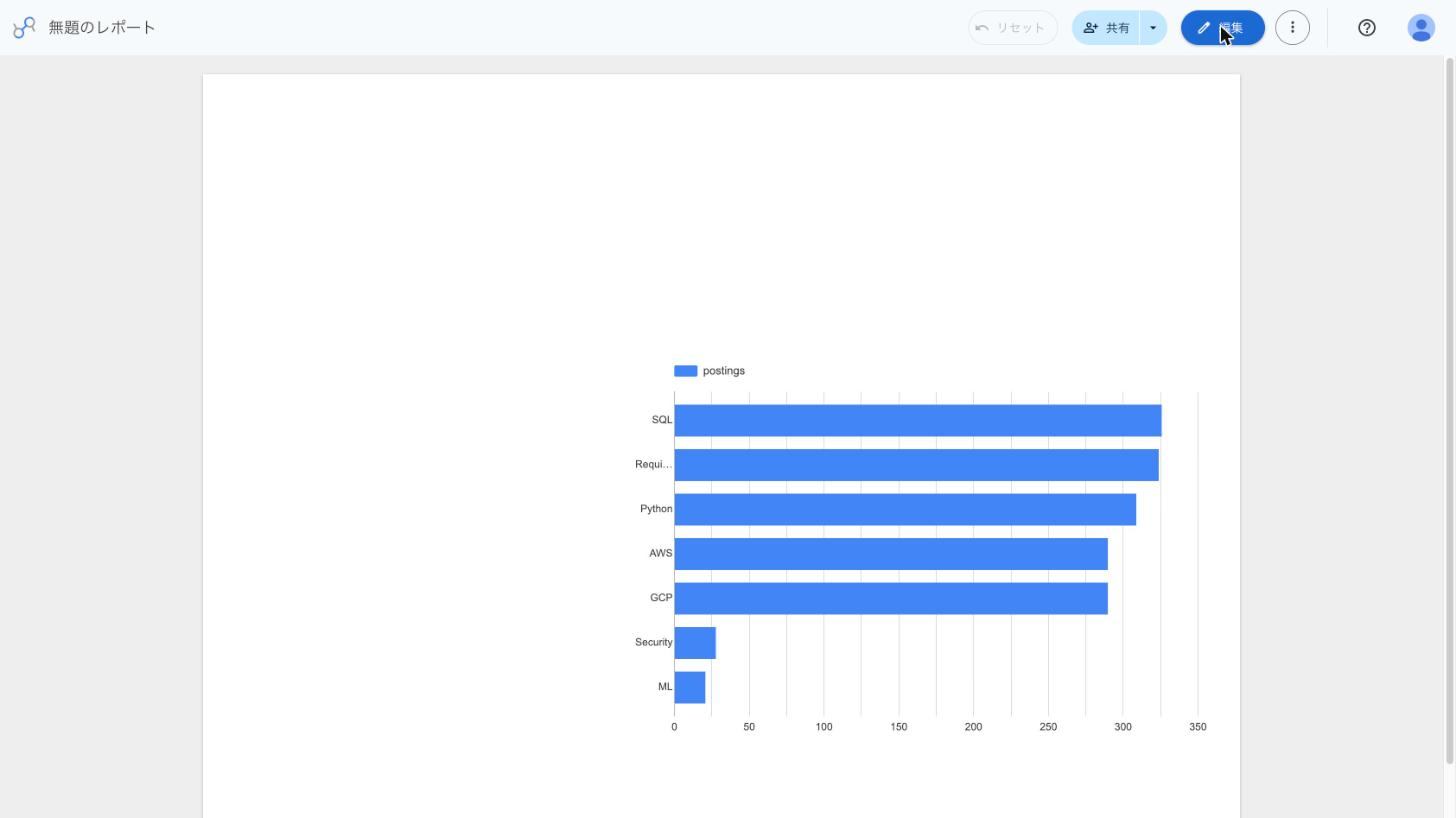
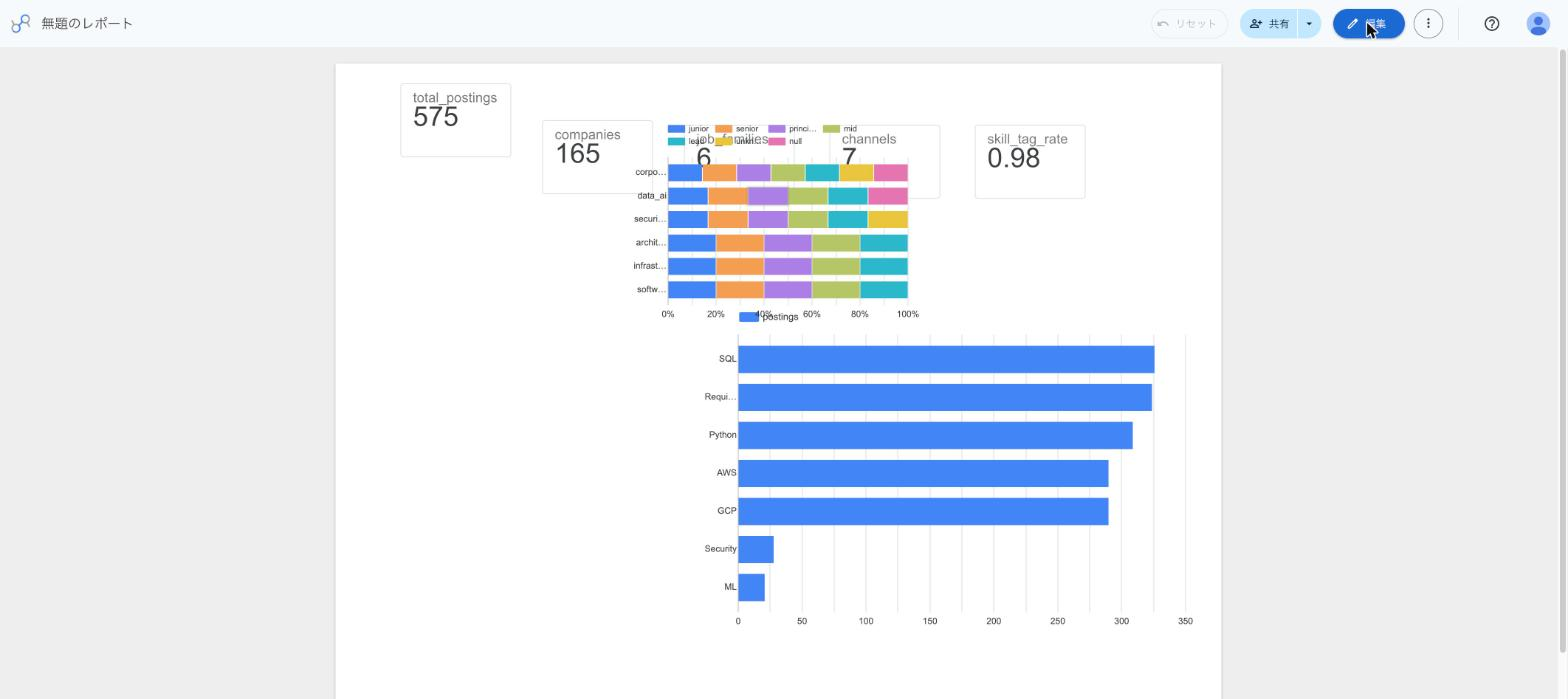
docs: 7차시 완료 — Looker Studio 리포트 링크 + ATS BigQuery 적재 반영
- Looker Studio 리포트 (스코어카드 5 + 직무×경력 누적막대 + 스킬 수요 막대,
  전부 BigQuery dbt 마트 직결) — README·consolidation·captures에 링크
- Public ATS → jdf.ats_postings 25,684행 + dbt ATS 마트 5종, dbt test PASS=17
- 데이터셋 병합 안 함 원칙 명시 (ats_postings / postings_canonical 별도)
- 캡처 14 갱신 (다중 차트 리포트)

7차시 6파트 충족: ①문제·데이터 ②파이프라인·데이터모델 ③실행결과 표(590→575)
④부하·장애·아직 보장 못하는 것 ⑤서빙(스크립트·Streamlit·SQL·Looker) ⑥다음 단계

Claude-Session: https://claude.ai/code/session_015odtgb41fAPRLKznAjAMey

diff --git a/README.md b/README.md
@@ -92,13 +92,14 @@ flowchart LR
 
 | 항목 | 상태 | 위치 |
 |---|---|---|
-| GCS 업로드 · BigQuery staging + `MERGE ON posting_id` | ✅ 실행 (canonical 575, 2회차 멱등) | [`cloud/`](cloud/) |
-| dbt Core marts (`stg_postings`, `mart_tech_demand`, `mart_platform_dist`) + `dbt test` | ✅ 실행 (`dbt run` PASS=3, `dbt test` PASS=7) | [`dbt/`](dbt/) |
+| GCS 업로드 · BigQuery staging + `MERGE ON posting_id` | ✅ 실행 (synth canonical 575, 2회차 멱등) | [`cloud/`](cloud/) |
+| Public ATS → BigQuery `jdf.ats_postings` | ✅ 실행 (25,684행, 300개사, greenhouse 22,110 / ashby 3,574) | [`cloud/load_ats_to_bq.py`](cloud/load_ats_to_bq.py) |
+| dbt Core — synth 마트 7종 + ATS 마트 5종 (`stg_ats_postings` + `mart_ats_*`) + `dbt test` | ✅ 실행 (`dbt test` PASS=17) | [`dbt/`](dbt/) |
 | alert 가드 — 빈 파티션 → `staging_rows==0` raise | ✅ 실증 | [`cloud/load_to_bq.py`](cloud/load_to_bq.py) |
 | Airflow `on_failure_callback` · `push_to_cloud` 브랜치 | 코드 있음 · DAG import 확인 (run 미실행) | [`dags/collect_postings_dag.py`](dags/collect_postings_dag.py) |
-| Looker Studio 연동 | ✅ 실행 | `jdf.mart_tech_demand` 막대차트 (캡처 14). 서빙: Streamlit + `read_result.py` + `query_marts.py` + Looker |
+| Looker Studio 연동 | ✅ 실행 | [리포트](https://lookerstudio.google.com/reporting/a69e9404-fea5-44cd-ac55-efc26c06720c) — 스코어카드 + 직무×경력 + 스킬 수요 (캡처 14). 설계: [`docs/7th-assignment/looker-bi-design.md`](docs/7th-assignment/looker-bi-design.md) |
 | 직무 taxonomy 매핑 · salary 텍스트 파서 | 계획 | Canonical Schema 전체 매핑의 일부 |
-| ATS 트랙 ↔ synth canonical 스키마 통합 | 미검증 | 두 트랙 컬럼셋이 달라 `postings_canonical` 공유 시 충돌 가능 (synth만 적재) |
+| ATS ↔ synth 데이터셋 병합 | **하지 않음 (원칙)** | 별도 테이블 `ats_postings` / `postings_canonical`. Looker 리포트도 데이터셋별 섹션 분리 |
 | 크론 스케줄 등록 | 계획 | 현재는 `airflow dags test` 수동 트리거만 |
 
 아키텍처 다이어그램: [`docs/diagrams/architecture-diagram-v1.html`](docs/diagrams/architecture-diagram-v1.html)(현재 구현) · [`docs/diagrams/target-architecture.html`](docs/diagrams/target-architecture.html)(클라우드 포함 목표).

diff --git a/docs/7th-assignment/consolidation.md b/docs/7th-assignment/consolidation.md
@@ -80,7 +80,8 @@ posting_id 중복: 0
 | `dbt run` | PASS=3 (`stg_postings` view + `mart_tech_demand`·`mart_platform_dist` table) | 12 |
 | `dbt test` | PASS=7 (`posting_id`·`skill`·`source_platform` unique+not_null) | 12 |
 | `cloud/query_marts.py` (SQL 서빙) | canonical 575 · mart_tech_demand 7행 (SQL 326 / 요건정의 324 / Python 309 / AWS 290 / GCP 290) · mart_platform_dist 7행 (스킬 태그율 0.96~1.0) | 10 |
-| Looker Studio | BigQuery 커넥터 → `jdf.mart_tech_demand` 막대차트 (스킬별 공고 수) | 14 |
+| Looker Studio | [리포트 링크](https://lookerstudio.google.com/reporting/a69e9404-fea5-44cd-ac55-efc26c06720c) — 스코어카드 5 + 직무×경력 누적막대 + 스킬 수요 막대, 전부 BigQuery dbt 마트 직결 | 14 |
+| Public ATS → BigQuery | `jdf.ats_postings` 25,684행 + dbt ATS 마트 5종 (`dbt test` PASS=17) | — |
 | alert 가드 | 빈 파티션 → `staging_rows==0` → raise | 16 |
 
 **BigQuery `canonical_total` 575 = 로컬 Spark 전처리 후 575 = `read_result.py` 575** — 로컬↔클라우드 건수 일치.
@@ -88,7 +89,7 @@ posting_id 중복: 0
 ## 6. 남은 문제와 다음 단계
 
 1. ~~`cloud/setup.sh` → `run_pipeline.sh --cloud` → `dbt run/test`~~ **2026-09-06 실행 완료** (아래 클라우드 결과). 남은 건 Airflow `push_to_cloud` run
-2. ~~Looker Studio 연결~~ **완료** (캡처 14). Airflow `push_to_cloud` run 은 남음
+2. ~~Looker Studio 연결~~ **완료** — 리포트 [링크](https://lookerstudio.google.com/reporting/a69e9404-fea5-44cd-ac55-efc26c06720c) + 5페이지 설계 문서 `looker-bi-design.md`. Airflow `push_to_cloud` run 만 남음
 3. 합성 데이터 리얼리티: 厚労省 job tag 분포, 섹션 템플릿 풀 30~50개, 볼륨 상향
 4. 직무 taxonomy 매핑 · salary 텍스트 파서 (Canonical Schema 전체 매핑)
 5. 크론 스케줄 등록 (현재 `airflow dags test` 수동 트리거)

diff --git a/docs/7th-assignment/captures/README.md b/docs/7th-assignment/captures/README.md
@@ -17,7 +17,7 @@
 | 11 | BigQuery 콘솔 SQL 에디터 + 결과 그리드 (mart_tech_demand 7행) | .png ✅ · (10 .txt에도 포함) |
 | 12 | `dbt run` PASS=3 + `dbt test` PASS=7 | .txt ✅ |
 | 13 | (10에 포함) mart_tech_demand 7행 / mart_platform_dist 7행 | .txt ✅ |
-| 14 | Looker Studio — BigQuery `jdf.mart_tech_demand` 막대차트 (스킬별 공고 수) | .png ✅ |
+| 14 | Looker Studio — BigQuery dbt 마트 리포트 (스코어카드 + 직무×경력 + 스킬 수요). [링크](https://lookerstudio.google.com/reporting/a69e9404-fea5-44cd-ac55-efc26c06720c) | .png ✅ |
 | 15 | Airflow `push_to_cloud=true` run — 태스크 success | .txt |
 | 16 | alert 가드 — 빈 파티션(0행) → `staging_rows==0` → raise, MERGE 중단 | .txt ✅ |
 | 17 | 5차시 장애 3종 (중복실행/404/강제중단→복구) 로그 발췌 | .txt ✅ |
